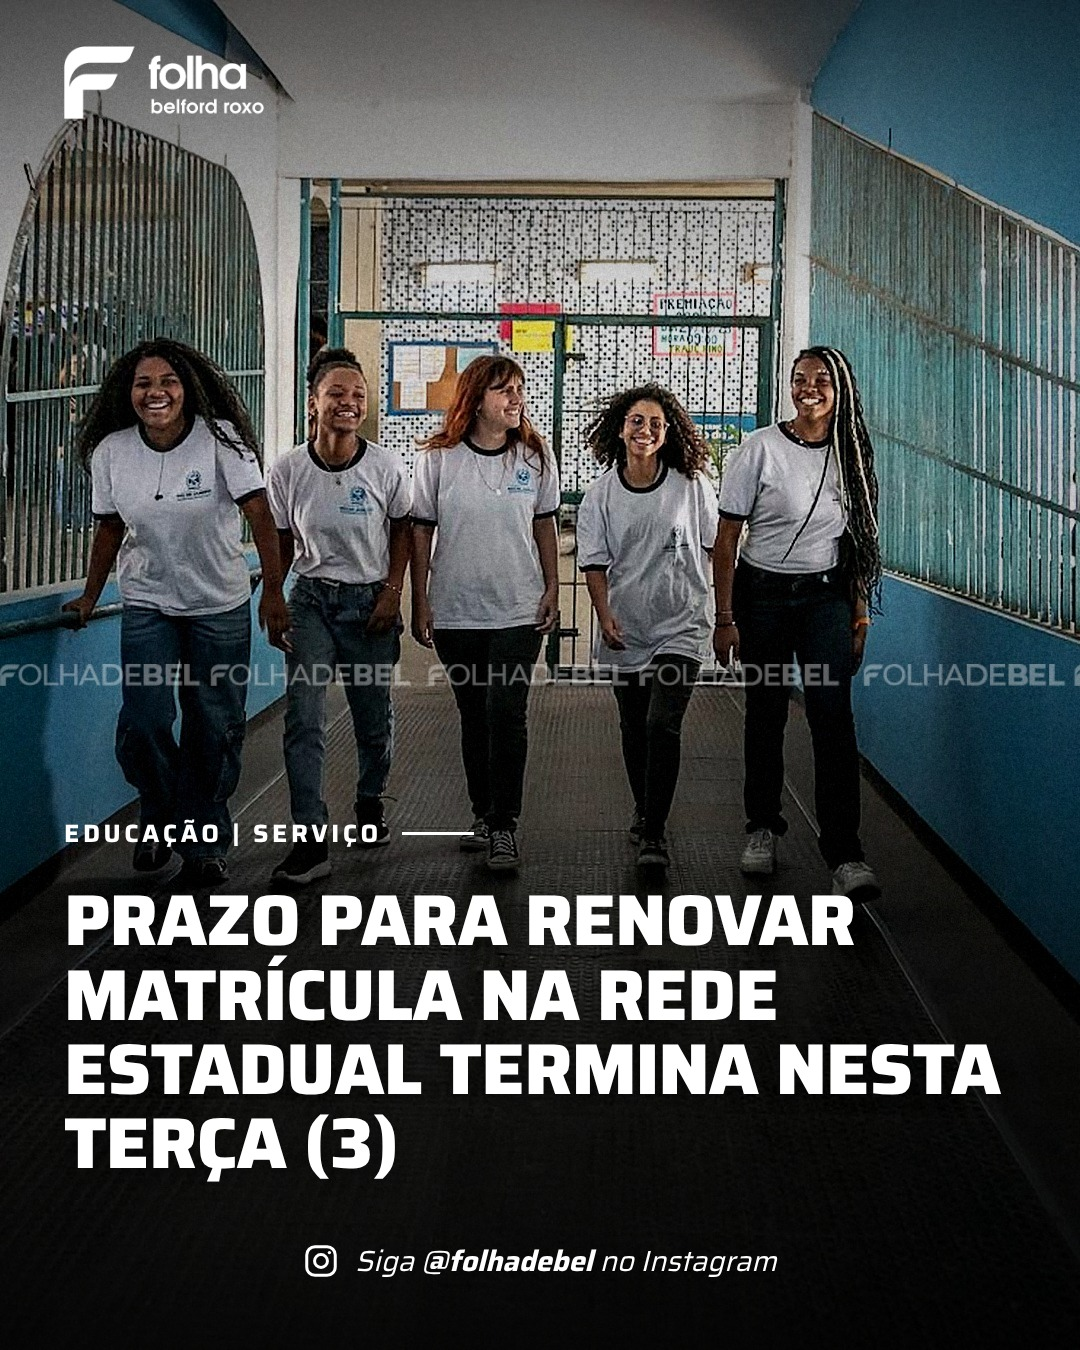
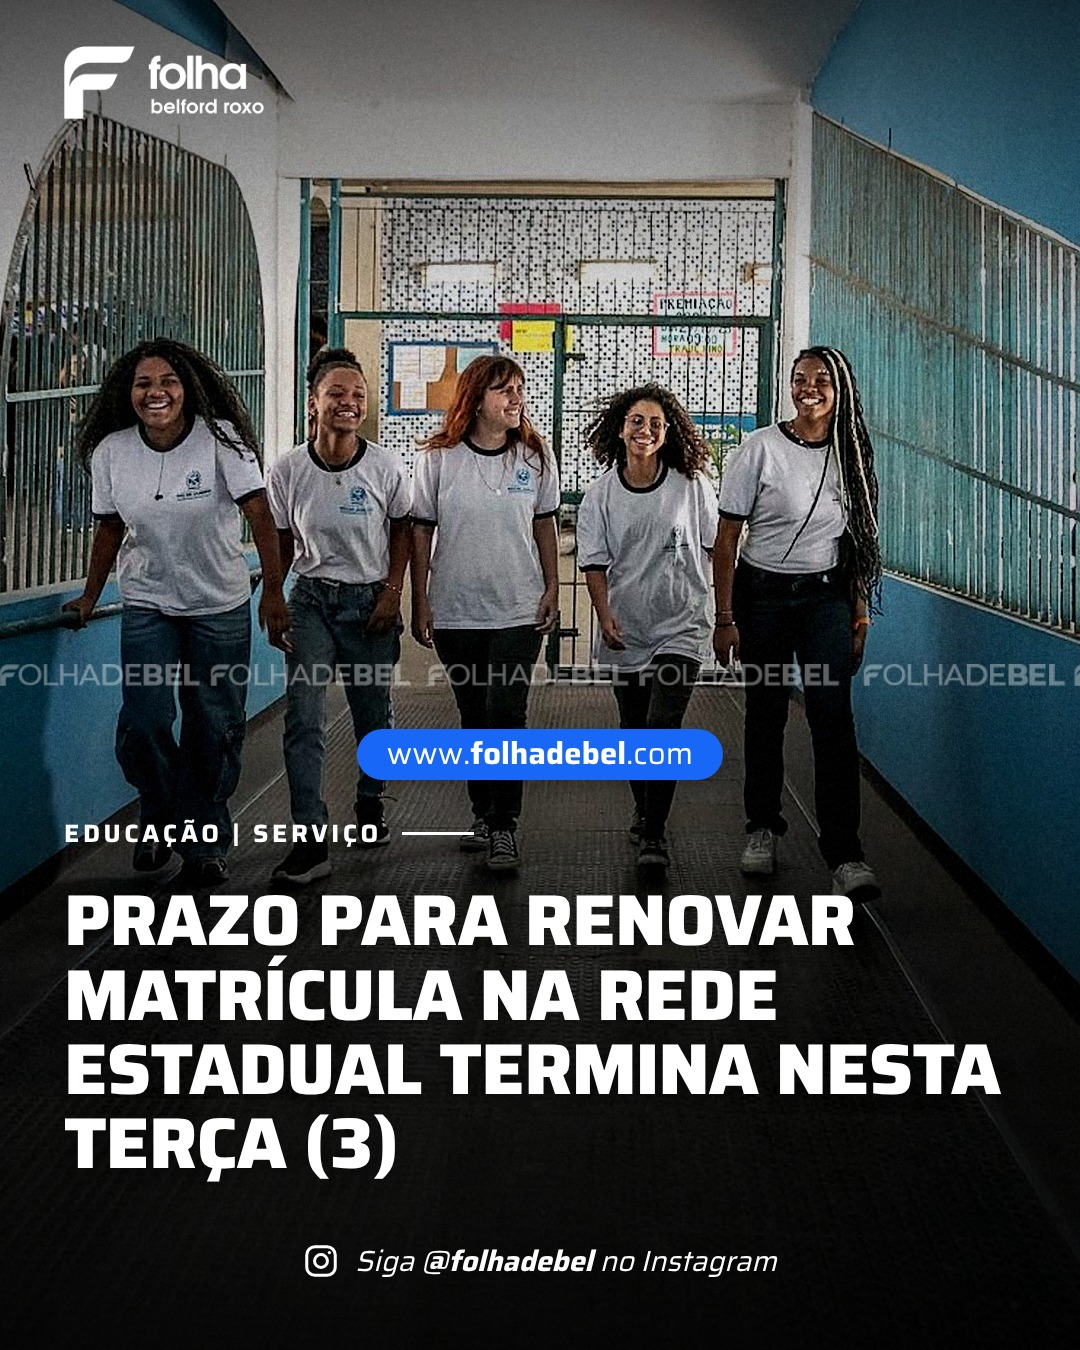
card_noticia: selo www.folhadebel.com acima da tag

Changed region(s): [[0.3361, 0.5289, 0.6722, 0.5911]]

diff --git a/tools/card_noticia.py b/tools/card_noticia.py
@@ -144,12 +144,16 @@ body{{width:{W}px;height:{H}px;overflow:hidden;background:#0a0a0a;font-family:Sa
 .av img{{width:100%;height:100%;border-radius:50%;object-fit:cover}}
 .av::after{{content:"";position:absolute;right:-6px;bottom:-4px;width:24px;height:24px;border-radius:50%;background:#7b3fe4;border:2px solid #fff}}
 .ig{{width:36px;height:36px;flex:none}}
+.site{{display:flex;justify-content:center;margin-bottom:34px}}
+.site span{{display:inline-block;padding:9px 30px 11px;border-radius:999px;background:#1967f7;font-size:31px;font-weight:400;line-height:1;letter-spacing:.005em;box-shadow:0 6px 18px rgba(0,0,0,.28)}}
+.site b{{font-weight:700}}
 </style></head><body><div class="card {"forte" if modo=="pequena" else ""} {"com-lf" if linha_fina else ""}">
 <img class="fundo" src="{fundo_uri}">
 <div class="sombra-topo"></div><div class="sombra-base"></div>
 <div class="marca"></div>
 <img class="logo" src="{b64(BASE/'assets'/'logo-folha-belford-roxo.png')}">
 <div class="conteudo">
+  <div class="site"><span>www.<b>folhadebel</b>.com</span></div>
   {('<div class="urgente"><span class="t" style="margin-left:-14px">TE</span>' + '<span class="b">URGENTE</span><span class="t">URGENTE</span>'*3 + '</div>') if urgente else ('<div class="tag">'+html.escape(tag)+'</div>' if tag else '')}
   <div class="titulo" id="t">{html.escape(titulo)}</div>
   {lf}
